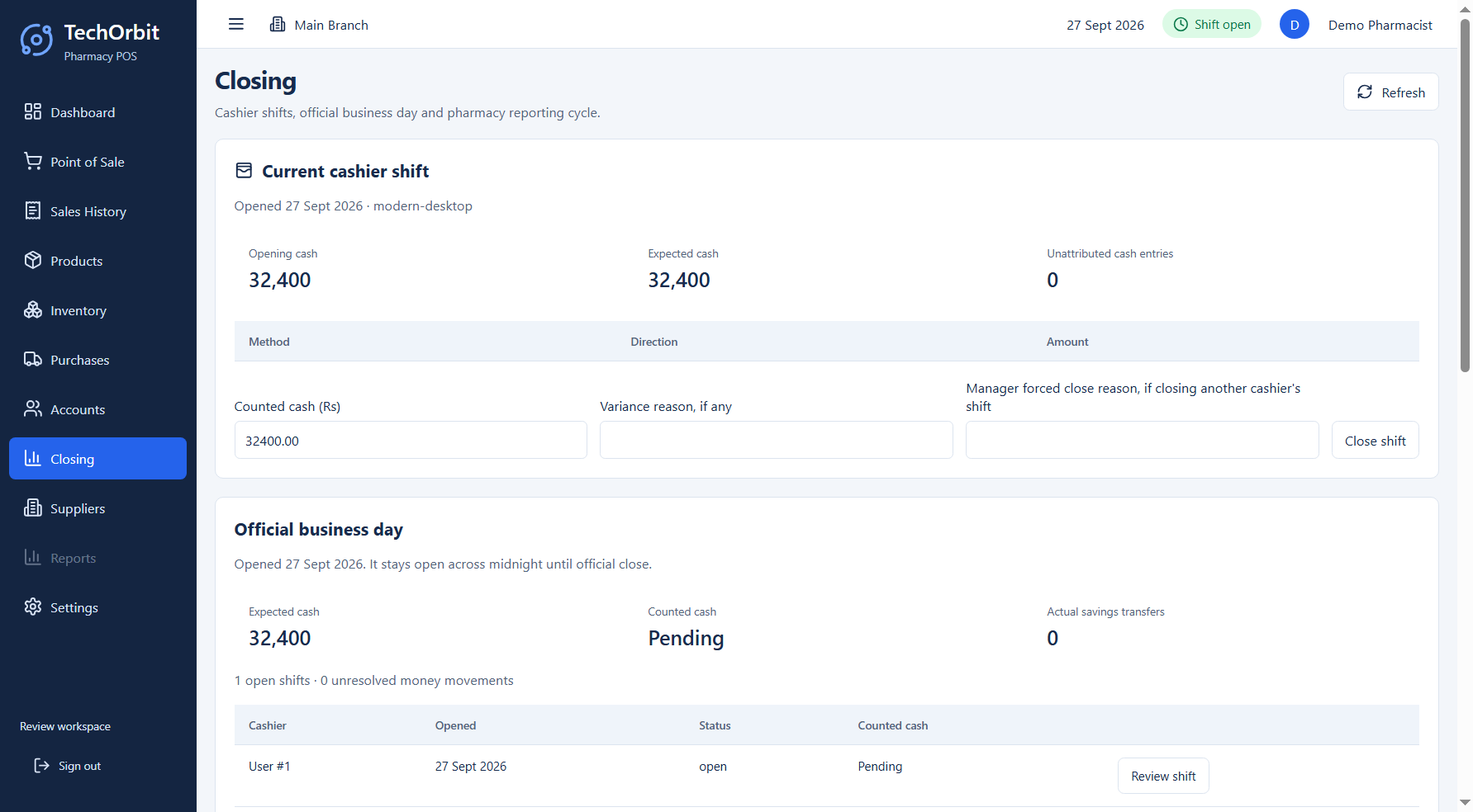
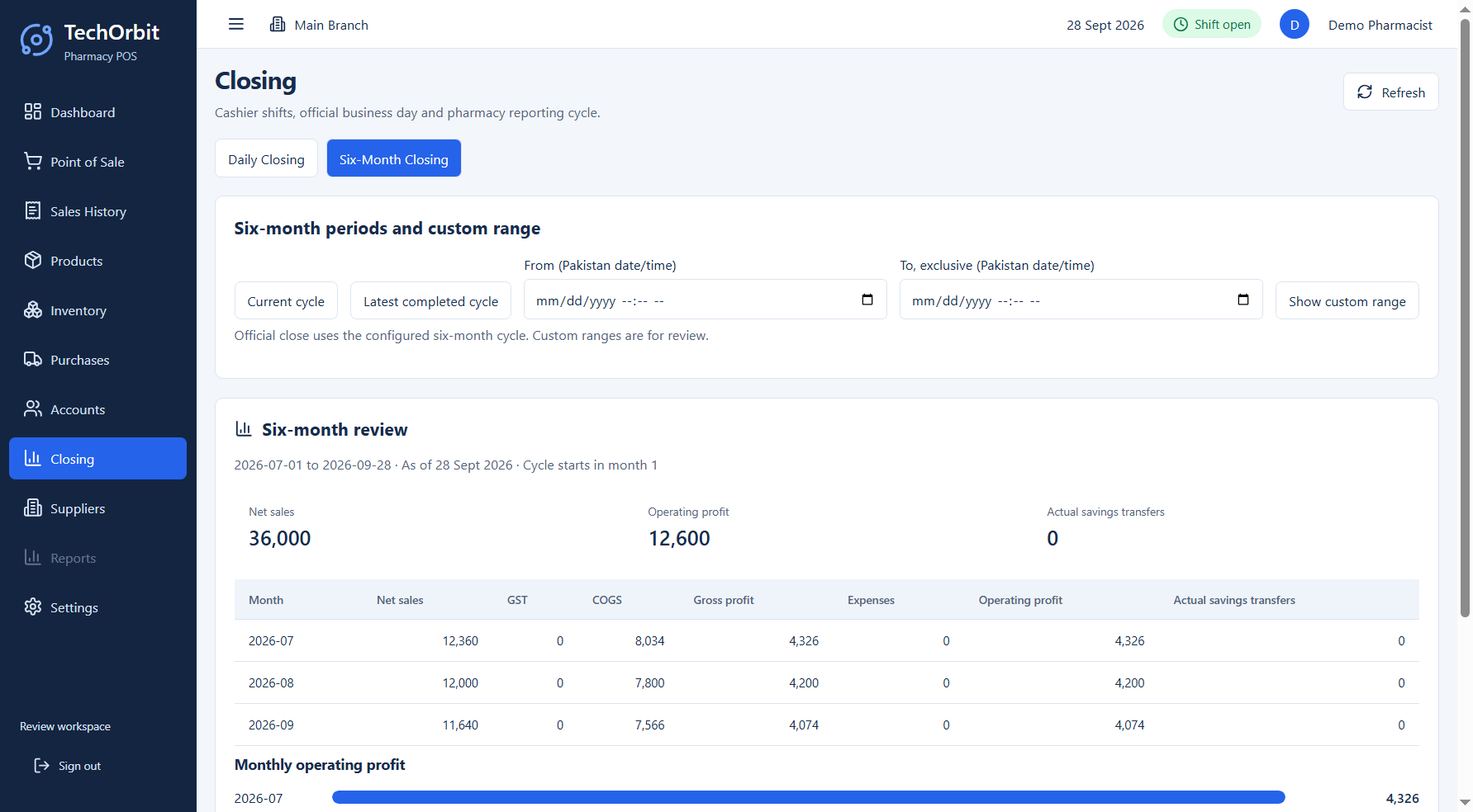
Add configurable six-month closing and period history

diff --git a/modernization/src/Closing.tsx b/modernization/src/Closing.tsx
@@ -18,6 +18,9 @@ export function Closing(){
   const [history,setHistory]=useState<Awaited<ReturnType<Api['closingDayHistory']>>>([]),[detail,setDetail]=useState<Awaited<ReturnType<Api['closingDayDetail']>>|null>(null);
   const [revisionCash,setRevisionCash]=useState(''),[revisionReason,setRevisionReason]=useState('');
   const [savingsAccount,setSavingsAccount]=useState(''),[savingsAmount,setSavingsAmount]=useState(''),[savingsReference,setSavingsReference]=useState('');
+  const [tab,setTab]=useState<'daily'|'six_month'>('daily'),[periodMode,setPeriodMode]=useState<'current'|'completed'|'custom'|'history'>('current');
+  const [periodFrom,setPeriodFrom]=useState(''),[periodTo,setPeriodTo]=useState(''),[periodNotes,setPeriodNotes]=useState(''),[periodRevisionReason,setPeriodRevisionReason]=useState('');
+  const [periodHistory,setPeriodHistory]=useState<Awaited<ReturnType<Api['closingPeriodHistory']>>>([]),[periodDetail,setPeriodDetail]=useState<Awaited<ReturnType<Api['closingPeriodDetail']>>|null>(null);
   const [error,setError]=useState(''),[notice,setNotice]=useState(''),[periodNotice,setPeriodNotice]=useState(''),[busy,setBusy]=useState(false);
   const load=async()=>{
     setBusy(true);setError('');
@@ -29,6 +32,7 @@ export function Closing(){
       try{const config=await window.pharmacy.closingConfig({});setManager(true);setAccounts(config.accounts);setTolerance(editable(config.policy.varianceToleranceMinor));setCycleMonth(config.policy.sixMonthCycleStartMonth);
         try{const current=await window.pharmacy.closingDayPreview({});setDay(current);setActuals(Object.fromEntries(current.accounts.map(row=>[row.id,editable(row.expectedNetMinor)])))}catch{setDay(null)}
         setHistory(await window.pharmacy.closingDayHistory({}));
+        setPeriodHistory(await window.pharmacy.closingPeriodHistory({}));
       }catch{setManager(false);setDay(null)}
       try{setPeriod(await window.pharmacy.closingPeriodPreview({}));setPeriodNotice('')}
       catch(e){setPeriod(null);setPeriodNotice((e as Error).message)}
@@ -37,9 +41,14 @@ export function Closing(){
   useEffect(()=>{void load()},[]);
   const action=async(work:()=>Promise<unknown>,message:string)=>{setBusy(true);setError('');setNotice('');try{await work();setNotice(message);await load()}catch(e){setError((e as Error).message)}finally{setBusy(false)}};
   const viewHistory=async(id:number)=>{try{const saved=await window.pharmacy.closingDayDetail({businessDayId:id});setDetail(saved);setRevisionCash(editable(saved.current.cashCountedMinor));setActuals(Object.fromEntries(saved.current.accounts.map(row=>[row.id,editable(row.actualNetMinor)])));setError('')}catch(e){setError((e as Error).message)}};
+  const showCompleted=async()=>{try{setPeriod(await window.pharmacy.closingPeriodCompletedPreview({}));setPeriodMode('completed');setPeriodDetail(null);setPeriodNotice('')}catch(e){setPeriodNotice((e as Error).message)}};
+  const showCustom=async()=>{try{if(!periodFrom||!periodTo)throw Error('Choose both Pakistan date/time boundaries');const from=new Date(periodFrom+'+05:00').toISOString(),to=new Date(periodTo+'+05:00').toISOString();setPeriod(await window.pharmacy.closingPeriodRangePreview({from,to}));setPeriodMode('custom');setPeriodDetail(null);setPeriodNotice('')}catch(e){setPeriodNotice((e as Error).message)}};
+  const showPeriodHistory=async(id:number)=>{try{const saved=await window.pharmacy.closingPeriodDetail({closingId:id});setPeriodDetail(saved);setPeriod(saved.current||null);setPeriodMode('history');setPeriodNotice('')}catch(e){setPeriodNotice((e as Error).message)}};
   return <section className="closing-page">
     <div className="page-title"><div><h1>Closing</h1><p>Cashier shifts, official business day and pharmacy reporting cycle.</p></div><button onClick={load} disabled={busy}><RefreshCw size={16}/> Refresh</button></div>
     {error&&<p className="error" role="alert">{error}</p>}{notice&&<p role="status">{notice}</p>}
+    <div className="closing-tabs" role="tablist" aria-label="Closing sections"><button role="tab" aria-selected={tab==='daily'} onClick={()=>setTab('daily')}>Daily Closing</button><button role="tab" aria-selected={tab==='six_month'} onClick={()=>setTab('six_month')}>Six-Month Closing</button></div>
+    {tab==='daily'&&<>
     <section className="panel"><h2><WalletCards size={18}/> Current cashier shift</h2>
       {shift?<><p>Opened {dateLabel(shift.openedAt)} · {shift.deviceId}</p>
         <div className="closing-summary"><div><small>Opening cash</small><strong>{money(shift.openingCashMinor)}</strong></div><div><small>Expected cash</small><strong>{money(shift.expectedCashMinor)}</strong></div><div><small>Unattributed cash entries</small><strong>{shift.unattributedCashCount}</strong></div></div>
@@ -73,9 +82,19 @@ export function Closing(){
           <div className="closing-form"><label>Revised counted cash (Rs)<input value={revisionCash} onChange={e=>setRevisionCash(e.target.value)}/></label>{detail.current.accounts.map(row=><label key={row.id}>Revised actual net for {row.name} (Rs)<input value={actuals[row.id]||''} onChange={e=>setActuals({...actuals,[row.id]:e.target.value})}/></label>)}<label>Revision reason<input value={revisionReason} onChange={e=>setRevisionReason(e.target.value)}/></label><button disabled={busy} onClick={()=>void action(async()=>{await window.pharmacy.closingDayRevise({businessDayId:detail.current.businessDayId,cashCountedMinor:minor(revisionCash),accountActuals:Object.fromEntries(detail.current.accounts.map(row=>[row.id,minor(actuals[row.id]||'')])),reason:revisionReason});await viewHistory(detail.current.businessDayId)},'Reasoned revision saved.')}>Save revision</button></div></>}
       </section>
     </>}
+    </>}
+    {tab==='six_month'&&<>
+    <section className="panel"><h2>Six-month periods and custom range</h2><div className="closing-form"><button onClick={()=>void action(async()=>{setPeriod(await window.pharmacy.closingPeriodPreview({}));setPeriodMode('current');setPeriodDetail(null)},'Current pharmacy cycle loaded.')}>Current cycle</button><button onClick={()=>void showCompleted()}>Latest completed cycle</button><label>From (Pakistan date/time)<input type="datetime-local" value={periodFrom} onChange={e=>setPeriodFrom(e.target.value)}/></label><label>To, exclusive (Pakistan date/time)<input type="datetime-local" value={periodTo} onChange={e=>setPeriodTo(e.target.value)}/></label><button onClick={()=>void showCustom()}>Show custom range</button></div><p>Official close uses the configured six-month cycle. Custom ranges are for review.</p></section>
     {periodNotice&&<p className="error" role="status">{periodNotice}</p>}
     {period&&<section className="panel"><h2><ChartColumn size={18}/> Six-month review</h2><p>{period.periodStart} to {period.periodEnd} · As of {dateLabel(period.asOf)} · Cycle starts in month {period.cycleStartMonth}</p>
+      <div className="closing-summary"><div><small>Net sales</small><strong>{money(period.totals.netSalesMinor)}</strong></div><div><small>Operating profit</small><strong>{money(period.totals.operatingProfitMinor)}</strong></div><div><small>Actual savings transfers</small><strong>{money(period.totals.savingsTransferredMinor)}</strong></div></div>
       <div className="account-table"><table><thead><tr><th>Month</th><th>Net sales</th><th>GST</th><th>COGS</th><th>Gross profit</th><th>Expenses</th><th>Operating profit</th><th>Actual savings transfers</th></tr></thead><tbody>{period.months.map(row=><tr key={row.month}><td>{row.month}</td><td className="number">{money(row.netSalesMinor)}</td><td className="number">{money(row.gstMinor)}</td><td className="number">{money(row.cogsMinor)}</td><td className="number">{money(row.grossProfitMinor)}</td><td className="number">{money(row.expensesMinor)}</td><td className="number">{money(row.operatingProfitMinor)}</td><td className="number">{money(row.savingsTransferredMinor)}</td></tr>)}</tbody></table></div>
+      <h3>Monthly operating profit</h3><div className="period-chart">{period.months.map(row=><div key={row.month}><span>{row.month}</span><div className="period-track"><div className={row.operatingProfitMinor<0?'negative':''} style={{width:`${Math.max(1,Math.round(Math.abs(row.operatingProfitMinor)/Math.max(1,...period.months.map(item=>Math.abs(item.operatingProfitMinor)))*100))}%`}}/></div><strong>{money(row.operatingProfitMinor)}</strong></div>)}</div>
+      {manager&&periodMode==='completed'&&period.cycleStart&&<div className="closing-form"><label>Official period close note<input value={periodNotes} onChange={e=>setPeriodNotes(e.target.value)}/></label><button disabled={busy||periodHistory.some(row=>row.period_start===period.cycleStart)} onClick={()=>void action(()=>window.pharmacy.closingPeriodClose({cycleStart:period.cycleStart!,notes:periodNotes}),'Official six-month period closed.')}>Official six-month close</button></div>}
     </section>}
+    {manager&&<section className="panel"><h2>Six-month closing history</h2>{periodHistory.length?<div className="account-table"><table><thead><tr><th>Cycle</th><th>Closed</th><th>Revisions</th><th></th></tr></thead><tbody>{periodHistory.map(row=><tr key={row.id}><td>{row.period_start} to {row.period_end}{row.legacy?' (legacy snapshot)':''}</td><td>{dateLabel(row.closed_at)}</td><td>{row.revisionCount}</td><td><button onClick={()=>void showPeriodHistory(row.id)}>View</button></td></tr>)}</tbody></table></div>:<p>No official six-month close recorded yet.</p>}
+      {periodDetail&&<>{periodDetail.legacy?<p>Legacy snapshot preserved. Reconcile it independently before a revision.</p>:<><p>Original operating profit: {money(periodDetail.original!.totals.operatingProfitMinor)} · Current: {money(periodDetail.current!.totals.operatingProfitMinor)}. Original report and {periodDetail.revisions.length} revisions retained.</p><div className="closing-form"><label>Reason for recalculated revision<input value={periodRevisionReason} onChange={e=>setPeriodRevisionReason(e.target.value)}/></label><button disabled={busy} onClick={()=>void action(async()=>{await window.pharmacy.closingPeriodRevise({closingId:periodDetail.closingId,reason:periodRevisionReason});await showPeriodHistory(periodDetail.closingId)},'Period revision saved.')}>Recalculate and revise</button></div></>}</>}
+    </section>}
+    </>}
   </section>;
 }

diff --git a/infrastructure/sqlite/services/six-month-closing.js b/infrastructure/sqlite/services/six-month-closing.js
@@ -1,0 +1,83 @@
+const {CashClosingService}=require('./cash-closing');
+
+class SixMonthClosingService {
+  constructor(db){this.db=db;this.cash=new CashClosingService(db)}
+  manager(userId){const code=this.cash.actorRole(userId);if(!['manager','admin'].includes(code))throw new Error('Manager permission is required for six-month closing')}
+  cycle(cycleStart){
+    if(!/^\d{4}-(0[1-9]|1[0-2])-01$/.test(String(cycleStart||'')))throw new Error('Choose the first day of a six-month cycle');
+    const [year,month]=cycleStart.split('-').map(Number),anchor=this.cash.policy().sixMonthCycleStartMonth;
+    if((month-anchor+12)%6!==0)throw new Error('Cycle start does not match this pharmacy configuration');
+    const from=new Date(Date.UTC(year,month-1,1)-5*3600000);
+    const to=new Date(Date.UTC(year,month+5,1)-5*3600000);
+    if(to.getTime()>Date.now())throw new Error('Six-month cycle is not complete yet');
+    return {from:from.toISOString(),to:to.toISOString(),cycleStart,cycleEnd:new Date(to.getTime()-1+5*3600000).toISOString().slice(0,10),cycleStartMonth:anchor};
+  }
+  latestCompletedCycle(){
+    const current=this.cash.cycleBounds(new Date().toISOString());
+    const local=new Date(Date.parse(current.start)+5*3600000);
+    const previous=new Date(Date.UTC(local.getUTCFullYear(),local.getUTCMonth()-6,1));
+    return this.cycle(previous.toISOString().slice(0,7)+'-01');
+  }
+  preview(input={}){
+    const cycle=input.cycleStart?this.cycle(input.cycleStart):this.latestCompletedCycle();
+    return {...this.cash.rangeReport(cycle.from,cycle.to),cycleStart:cycle.cycleStart,cycleEnd:cycle.cycleEnd};
+  }
+  close(input){
+    this.manager(input?.userId);
+    if(!input?.cycleStart)throw new Error('Select the completed pharmacy cycle before official close');
+    return this.db.transaction(()=>{
+      const cycle=this.cycle(input.cycleStart);
+      const overlap=this.db.prepare(`SELECT id FROM PeriodClosings WHERE period_type='six_month'
+        AND period_start<=? AND period_end>=? LIMIT 1`).get(cycle.cycleEnd,cycle.cycleStart);
+      if(overlap)throw new Error('This six-month cycle overlaps an existing official close');
+      const open=this.db.prepare("SELECT 1 FROM BusinessDays WHERE status='open' AND julianday(opened_at)<julianday(?) LIMIT 1").get(cycle.to);
+      if(open)throw new Error('Close overlapping business days before six-month close');
+      const report={...this.cash.rangeReport(cycle.from,cycle.to),cycleStart:cycle.cycleStart,cycleEnd:cycle.cycleEnd};
+      const now=new Date().toISOString(),notes=String(input.notes||'').trim()||null;
+      const id=Number(this.db.prepare(`INSERT INTO PeriodClosings(period_type,period_start,period_end,totals_json,closed_at,closed_by,notes)
+        VALUES('six_month',?,?,?,?,?,?)`).run(cycle.cycleStart,cycle.cycleEnd,JSON.stringify(report.totals),now,input.userId,notes).lastInsertRowid);
+      this.db.prepare('INSERT INTO PeriodClosingDetails(period_closing_id,from_utc,to_utc,cycle_start_month,report_json) VALUES(?,?,?,?,?)')
+        .run(id,cycle.from,cycle.to,cycle.cycleStartMonth,JSON.stringify(report));
+      this.audit('six_month.close',id,input.userId,report,notes);
+      return {closingId:id,closedAt:now,...report};
+    })();
+  }
+  history(){
+    return this.db.prepare(`SELECT p.id,p.period_start,p.period_end,p.closed_at,p.closed_by,
+      CASE WHEN d.period_closing_id IS NULL THEN 1 ELSE 0 END legacy
+      FROM PeriodClosings p LEFT JOIN PeriodClosingDetails d ON d.period_closing_id=p.id
+      WHERE p.period_type='six_month' ORDER BY p.period_start DESC,p.id DESC`).all()
+      .map(row=>({...row,revisionCount:this.db.prepare('SELECT COUNT(*) count FROM PeriodClosingRevisions WHERE period_closing_id=?').get(row.id).count}));
+  }
+  detail(id){
+    const row=this.db.prepare(`SELECT p.*,d.report_json FROM PeriodClosings p
+      LEFT JOIN PeriodClosingDetails d ON d.period_closing_id=p.id WHERE p.id=? AND p.period_type='six_month'`).get(id);
+    if(!row)throw new Error('Six-month closing was not found');
+    if(!row.report_json)return {closingId:row.id,legacy:true,periodStart:row.period_start,periodEnd:row.period_end,originalTotals:JSON.parse(row.totals_json),revisions:[]};
+    const revisions=this.db.prepare('SELECT revision_number,reason,revised_at,revised_by,report_json FROM PeriodClosingRevisions WHERE period_closing_id=? ORDER BY revision_number').all(id);
+    return {closingId:row.id,legacy:false,original:JSON.parse(row.report_json),current:JSON.parse(revisions.at(-1)?.report_json||row.report_json),
+      revisions:revisions.map(({report_json,...metadata})=>metadata)};
+  }
+  revise(input){
+    this.manager(input?.userId);
+    const reason=String(input?.reason||'').trim();if(!reason)throw new Error('Six-month revision requires a reason');
+    return this.db.transaction(()=>{
+      const detail=this.detail(input.closingId);
+      if(detail.legacy)throw new Error('Legacy period snapshot needs independent reconciliation before revision');
+      const previous=detail.current;
+      const corrected=this.cash.rangeReport(previous.from,previous.asOf);
+      if(JSON.stringify(previous.totals)===JSON.stringify(corrected.totals))throw new Error('No financial change exists to revise');
+      const report={...corrected,cycleStart:previous.cycleStart,cycleEnd:previous.cycleEnd};
+      const number=detail.revisions.length+1,now=new Date().toISOString();
+      this.db.prepare(`INSERT INTO PeriodClosingRevisions(period_closing_id,revision_number,previous_report_json,report_json,reason,revised_at,revised_by)
+        VALUES(?,?,?,?,?,?,?)`).run(input.closingId,number,JSON.stringify(previous),JSON.stringify(report),reason,now,input.userId);
+      this.audit('six_month.revise',input.closingId,input.userId,report,reason);
+      return {closingId:input.closingId,revisionNumber:number,...report};
+    })();
+  }
+  audit(action,id,userId,next,reason){
+    this.db.prepare(`INSERT INTO AuditLog(occurred_at,user_id,action,entity_type,entity_id,new_json,reason)
+      VALUES(?,?,?,'period_closing',?,?,?)`).run(new Date().toISOString(),userId,action,String(id),JSON.stringify(next),reason||null);
+  }
+}
+module.exports={SixMonthClosingService};

diff --git a/modernization/src/Purchases.tsx b/modernization/src/Purchases.tsx
@@ -13,16 +13,16 @@ export function Purchases({initialTab='purchases'}:{initialTab?:'purchases'|'sup
  const [tab,setTab]=useState<'purchases'|'suppliers'|'history'>(initialTab),[suppliers,setSuppliers]=useState<Supplier[]>([]),[products,setProducts]=useState<PurchaseProduct[]>([]),[history,setHistory]=useState<PurchaseHistory[]>([]);
  const [supplierSearch,setSupplierSearch]=useState(''),[productSearch,setProductSearch]=useState(''),[loading,setLoading]=useState(false),[error,setError]=useState(''),[status,setStatus]=useState('');
  const [supplierEditor,setSupplierEditor]=useState<SupplierInput|null>(null),[detail,setDetail]=useState<PurchaseDetail|null>(null),[returnSource,setReturnSource]=useState<PurchaseDetail|null>(null),[preview,setPreview]=useState<PurchasePreview|null>(null);
- const reference=useRef(key());
+ const reference=useRef(key()),reviewedAt=useRef(new Date().toISOString());
  const [supplierId,setSupplierId]=useState(0),[invoice,setInvoice]=useState(''),[purchasedAt,setPurchasedAt]=useState(today()),[method,setMethod]=useState('cash'),[paid,setPaid]=useState(''),[dueDate,setDueDate]=useState(''),[notes,setNotes]=useState(''),[lines,setLines]=useState<DraftLine[]>([blankLine()]);
  const load=async()=>{setLoading(true);setError('');try{const [s,p,h]=await Promise.all([window.pharmacy.supplierList({q:supplierSearch}),window.pharmacy.purchaseProducts({q:productSearch}),window.pharmacy.purchaseHistory({})]);setSuppliers(s);setProducts(p);setHistory(h);if(!supplierId&&s[0])setSupplierId(s[0].id)}catch(e){setError((e as Error).message)}finally{setLoading(false)}};
  useEffect(()=>{const timer=setTimeout(load,120);return()=>clearTimeout(timer)},[supplierSearch,productSearch]);
- const payload=():PurchaseInput=>({supplierId,invoiceNumber:invoice,purchasedAt:purchasedAt+'T12:00:00.000+05:00',paymentMethod:method,amountPaidMinor:Math.round((paid===''?(method==='credit'?0:total):Number(paid))*100),dueDate,notes,idempotencyKey:reference.current,items:lines.map(x=>({productId:x.productId,purchaseUnit:x.purchaseUnit,purchasedQuantity:Number(x.purchasedQuantity),bonusQuantity:Number(x.bonusQuantity),unitCostMinor:Math.round(Number(x.unitCost)*100),salePriceMinor:Math.round(Number(x.salePrice)*100),batchNumber:x.batchNumber,expiryDate:x.expiryDate,manufacturingDate:x.manufacturingDate,updateSellingPrice:x.updateSellingPrice}))});
+ const payload=():PurchaseInput=>({supplierId,invoiceNumber:invoice,purchasedAt:purchasedAt===today()?reviewedAt.current:purchasedAt+'T12:00:00.000+05:00',paymentMethod:method,amountPaidMinor:Math.round((paid===''?(method==='credit'?0:total):Number(paid))*100),dueDate,notes,idempotencyKey:reference.current,items:lines.map(x=>({productId:x.productId,purchaseUnit:x.purchaseUnit,purchasedQuantity:Number(x.purchasedQuantity),bonusQuantity:Number(x.bonusQuantity),unitCostMinor:Math.round(Number(x.unitCost)*100),salePriceMinor:Math.round(Number(x.salePrice)*100),batchNumber:x.batchNumber,expiryDate:x.expiryDate,manufacturingDate:x.manufacturingDate,updateSellingPrice:x.updateSellingPrice}))});
  const changeLine=(index:number,patch:Partial<DraftLine>)=>{setPreview(null);setLines(rows=>rows.map((row,i)=>i===index?{...row,...patch}:row))};
  const selectProduct=(index:number,id:number)=>{const product=products.find(x=>x.id===id),unit=product?.units.find(x=>x.default)||product?.units[0];changeLine(index,{productId:id,purchaseUnit:unit?.unitName||'',salePrice:String((unit?.sellingPriceMinor??product?.default_sale_price_minor??0)/100)})};
  const total=useMemo(()=>lines.reduce((sum,x)=>sum+Number(x.purchasedQuantity||0)*Number(x.unitCost||0),0),[lines]);
  const saveSupplier=async(event:React.FormEvent)=>{event.preventDefault();if(!supplierEditor)return;setLoading(true);setError('');try{const saved=await window.pharmacy.supplierSave(supplierEditor);setSupplierEditor(null);setStatus(`Supplier ${saved.name} saved.`);await load()}catch(e){setError((e as Error).message)}finally{setLoading(false)}};
- const inspect=async()=>{setError('');setStatus('');try{setPreview(await window.pharmacy.purchasePreview(payload()))}catch(e){setError((e as Error).message)}};
+ const inspect=async()=>{setError('');setStatus('');reviewedAt.current=new Date().toISOString();try{setPreview(await window.pharmacy.purchasePreview(payload()))}catch(e){setError((e as Error).message)}};
  const post=async()=>{if(!preview)return;setLoading(true);setError('');try{const result=await window.pharmacy.purchasePost(payload());setStatus(`Purchase #${result.purchaseId} posted. Paid ${money(result.amountPaidMinor)} · Due ${money(result.balanceDueMinor)}.`);setPreview(null);reference.current=key();setInvoice('');setPaid('');setDueDate('');setNotes('');setLines([blankLine()]);await load()}catch(e){setError((e as Error).message)}finally{setLoading(false)}};
  return <section className="purchases-page"><div className="page-title"><div><h1>{initialTab==='suppliers'?'Suppliers':'Purchases'}</h1><p>Receive supplier invoices with batch, units, bonus stock, effective cost and payable control.</p></div><button onClick={()=>load()} disabled={loading}><RefreshCw size={16}/> Refresh</button></div>
   <div className="segmented purchase-tabs"><button aria-pressed={tab==='purchases'} onClick={()=>setTab('purchases')}><Truck size={16}/> Receiving</button><button aria-pressed={tab==='suppliers'} onClick={()=>setTab('suppliers')}><Building2 size={16}/> Suppliers</button><button aria-pressed={tab==='history'} onClick={()=>setTab('history')}>Purchase history</button></div>

diff --git a/infrastructure/sqlite/services/cash-closing.js b/infrastructure/sqlite/services/cash-closing.js
@@ -102,18 +102,36 @@ class CashClosingService {
   sixMonthReport(asOf = new Date().toISOString()) {
     const end = new Date(asOf);
     if (Number.isNaN(end.getTime()) || end.getTime() > Date.now()) throw new Error('Invalid report date');
-    const pakistan = new Date(end.getTime() + 5 * 3600000);
+    const bounds=this.cycleBounds(end.toISOString());
+    return this.rangeReport(bounds.start,end.toISOString());
+  }
+  cycleBounds(asOf) {
+    const end=new Date(asOf);
+    if(Number.isNaN(end.getTime()))throw new Error('Invalid cycle date');
+    const pakistan = new Date(end.getTime() - 1 + 5 * 3600000);
     const year = pakistan.getUTCFullYear(), month = pakistan.getUTCMonth();
     const anchor = this.policy().sixMonthCycleStartMonth - 1;
     let cycleMonth = year * 12 + anchor;
     const currentMonth = year * 12 + month;
     while (cycleMonth > currentMonth) cycleMonth -= 6;
     while (cycleMonth + 6 <= currentMonth) cycleMonth += 6;
+    const instant=index=>new Date(Date.UTC(Math.floor(index / 12),index % 12,1)-5*3600000).toISOString();
+    return {start:instant(cycleMonth),end:instant(cycleMonth+6),cycleStartMonth:anchor+1};
+  }
+  rangeReport(fromInput,toInput) {
+    const fromDate=new Date(fromInput),toDate=new Date(toInput);
+    if(Number.isNaN(fromDate.getTime())||Number.isNaN(toDate.getTime())||toDate<=fromDate||toDate.getTime()>Date.now())
+      throw new Error('Choose a valid past report date/time range');
+    const fromMonth=new Date(fromDate.getTime()+5*3600000),lastMonth=new Date(toDate.getTime()-1+5*3600000);
+    const firstIndex=fromMonth.getUTCFullYear()*12+fromMonth.getUTCMonth();
+    const lastIndex=lastMonth.getUTCFullYear()*12+lastMonth.getUTCMonth();
+    if(lastIndex-firstIndex>=120)throw new Error('Report range cannot exceed 120 months');
     const months = [];
-    for (let index = cycleMonth; index <= currentMonth; index++) {
+    for (let index = firstIndex; index <= lastIndex; index++) {
       const start = new Date(Date.UTC(Math.floor(index / 12), index % 12, 1) - 5 * 3600000);
       const next = new Date(Date.UTC(Math.floor((index + 1) / 12), (index + 1) % 12, 1) - 5 * 3600000);
-      const from = start.toISOString(), to = index === currentMonth ? end.toISOString() : next.toISOString();
+      const from = new Date(Math.max(start.getTime(),fromDate.getTime())).toISOString();
+      const to = new Date(Math.min(next.getTime(),toDate.getTime())).toISOString();
       const sales = this.db.prepare("SELECT COALESCE(SUM(final_total_minor),0) total,COALESCE(SUM(cogs_minor),0) cogs,COALESCE(SUM(gst_minor),0) gst FROM Sales WHERE status='posted' AND julianday(sold_at)>=julianday(?) AND julianday(sold_at)<julianday(?)").get(from, to);
       const customerReturns = this.db.prepare(`SELECT COALESCE(SUM(r.total_minor),0) amount,
         COALESCE(SUM((SELECT SUM(i.cogs_minor) FROM SaleReturnItems i WHERE i.sale_return_id=r.id)),0) cogs,
@@ -134,15 +152,12 @@ class CashClosingService {
         purchaseReturnsMinor: Number(returns),savingsTransferredMinor:Number(savings) });
     }
     const fields = ['salesMinor','customerReturnsMinor','netSalesMinor','gstMinor','cogsMinor','grossProfitMinor','expensesMinor','operatingProfitMinor','purchasesMinor','purchaseReturnsMinor','savingsTransferredMinor'];
-    return { periodStart: `${months[0].month}-01`, periodEnd: pakistan.toISOString().slice(0,10), asOf: end.toISOString(), cycleStartMonth:anchor + 1, months,
+    return { periodStart: fromMonth.toISOString().slice(0,10), periodEnd: lastMonth.toISOString().slice(0,10), from:fromDate.toISOString(),asOf:toDate.toISOString(), cycleStartMonth:this.policy().sixMonthCycleStartMonth, months,
       totals: months.reduce((a,m)=>{for(const k of fields)a[k]+=m[k];return a;},Object.fromEntries(fields.map(k=>[k,0]))) };
   }
   closeSixMonth(x) {
-    const report = this.sixMonthReport(x.asOf), now = new Date().toISOString();
-    const id = this.db.prepare("INSERT INTO PeriodClosings(period_type,period_start,period_end,totals_json,closed_at,closed_by,notes) VALUES ('six_month',?,?,?,?,?,?)")
-      .run(report.periodStart, report.periodEnd, JSON.stringify(report.totals), now, x.closedBy || null, x.notes || null).lastInsertRowid;
-    this.audit('period.close', id, x, report);
-    return { closingId: Number(id), ...report };
+    return new (require('./six-month-closing').SixMonthClosingService)(this.db)
+      .close({...x,userId:x?.userId||x?.closedBy});
   }
   audit(action, id, x, next) {
     this.db.prepare("INSERT INTO AuditLog(occurred_at,user_id,action,entity_type,entity_id,new_json,reason,device_id) VALUES (?,?,?,'closing',?,?,?,?)")

diff --git a/modernization/src/contracts.ts b/modernization/src/contracts.ts
@@ -10,6 +10,12 @@ export interface ClosingDay {
   savingsTransferredMinor:number;shifts:{id:number;user_id:number;device_id:string;status:string;opened_at:string;closed_at:string|null;counted_cash_minor:number|null}[];
   reason?:string|null;revisionNumber?:number;revisionReason?:string;
 }
+export interface PeriodReport {
+  periodStart:string;periodEnd:string;from:string;asOf:string;cycleStartMonth:number;
+  cycleStart?:string;cycleEnd?:string;closingId?:number;revisionNumber?:number;
+  months:{month:string;netSalesMinor:number;gstMinor:number;cogsMinor:number;grossProfitMinor:number;expensesMinor:number;operatingProfitMinor:number;savingsTransferredMinor:number}[];
+  totals:{netSalesMinor:number;gstMinor:number;cogsMinor:number;grossProfitMinor:number;expensesMinor:number;operatingProfitMinor:number;savingsTransferredMinor:number};
+}
 export type CreditMode = 'paid' | 'partial' | 'credit';
 export interface Product {
   id: number;
@@ -183,7 +189,13 @@ export interface Api {
   productSuppliers():Promise<{id:number;name:string}[]>;
   shiftStatus():Promise<{id:number;opened_at:string;device_id:string}|null>;
   closingShiftPreview(input:{shiftId:number}):Promise<{shiftId:number;userId:number|null;deviceId:string;status:string;openedAt:string;closedAt:string|null;openingCashMinor:number;expectedCashMinor:number;countedCashMinor:number|null;varianceMinor:number|null;unattributedCashCount:number;movements:{method:string;direction:string;amount:number}[]}>;
-  closingPeriodPreview(input:{asOf?:string}):Promise<{periodStart:string;periodEnd:string;asOf:string;cycleStartMonth:number;months:{month:string;netSalesMinor:number;gstMinor:number;cogsMinor:number;grossProfitMinor:number;expensesMinor:number;operatingProfitMinor:number;savingsTransferredMinor:number}[];totals:{netSalesMinor:number;gstMinor:number;cogsMinor:number;grossProfitMinor:number;expensesMinor:number;operatingProfitMinor:number;savingsTransferredMinor:number}}>;
+  closingPeriodPreview(input:{asOf?:string}):Promise<PeriodReport>;
+  closingPeriodRangePreview(input:{from:string;to:string}):Promise<PeriodReport>;
+  closingPeriodCompletedPreview(input:{cycleStart?:string}):Promise<PeriodReport>;
+  closingPeriodClose(input:{cycleStart:string;notes:string}):Promise<PeriodReport>;
+  closingPeriodHistory(input:Record<string,never>):Promise<{id:number;period_start:string;period_end:string;closed_at:string;legacy:number;revisionCount:number}[]>;
+  closingPeriodDetail(input:{closingId:number}):Promise<{closingId:number;legacy:boolean;original?:PeriodReport;current?:PeriodReport;originalTotals?:PeriodReport['totals'];periodStart?:string;periodEnd?:string;revisions:{revision_number:number;reason:string;revised_at:string}[]}>;
+  closingPeriodRevise(input:{closingId:number;reason:string}):Promise<PeriodReport>;
   closingHandover():Promise<{shiftId:number;countedCashMinor:number}|null>;
   closingShiftOpen(input:{openingCashMinor:number;handoverConfirmed:boolean}):Promise<{id:number;business_day_id:number}>;
   closingShiftClose(input:{shiftId:number;countedCashMinor:number;varianceReason:string;forcedCloseReason:string}):Promise<{shiftId:number;varianceMinor:number}>;

diff --git a/tests/cash-closing.test.js b/tests/cash-closing.test.js
@@ -4,6 +4,7 @@ const {CashClosingService}=require('../infrastructure/sqlite/services/cash-closi
 const {recordMoneyMovement}=require('../infrastructure/sqlite/services/money-movement');
 const {ClosingConfigurationService}=require('../infrastructure/sqlite/services/closing-configuration');
 const {DailyClosingService}=require('../infrastructure/sqlite/services/daily-closing');
+const {SixMonthClosingService}=require('../infrastructure/sqlite/services/six-month-closing');
 
 describe('cash shift ownership and closing',()=>{
   let db,service,user1,user2;
@@ -47,9 +48,26 @@ describe('cash shift ownership and closing',()=>{
   test('six month fixture remains immutable',()=>{
     const report=service.sixMonthReport(t(0));
     expect(report.months.map(x=>x.month)).toEqual(['2026-07','2026-08','2026-09']);
-    const closed=service.closeSixMonth({asOf:t(0)});
+    const manager=Number(db.prepare("INSERT INTO Users(username,password_hash,display_name,role_id,created_at,updated_at) VALUES('manager-period','fixture','Manager',3,?,?)")
+      .run(t(0),t(0)).lastInsertRowid);
+    expect(()=>service.closeSixMonth({cycleStart:'2026-07-01',userId:manager})).toThrow(/not complete/);
+    const closed=service.closeSixMonth({cycleStart:'2026-01-01',userId:manager});
     expect(closed.closingId).toBeGreaterThan(0);
-    expect(()=>service.closeSixMonth({asOf:t(0)})).toThrow(/UNIQUE/);
+    expect(closed).toMatchObject({periodStart:'2026-01-01',periodEnd:'2026-06-30'});
+    expect(()=>service.closeSixMonth({cycleStart:'2026-01-01',userId:manager})).toThrow(/overlaps/);
+    const period=new SixMonthClosingService(db);
+    const detail=period.detail(closed.closingId);
+    expect(detail.original.totals).toEqual(closed.totals);
+    expect(period.history()[0]).toMatchObject({id:closed.closingId,legacy:0,revisionCount:0});
+    const custom=service.rangeReport('2026-04-10T04:00:00Z','2026-05-15T15:00:00Z');
+    expect(custom.months.map(x=>x.month)).toEqual(['2026-04','2026-05']);
+    db.prepare("INSERT INTO Expenses(category_id,amount_minor,method,expense_date,description,idempotency_key,status,created_at) VALUES(1,100,'cash','2026-05-01T08:00:00Z','Late correction','late-period-expense','posted',?)").run(t(0));
+    expect(()=>period.revise({closingId:closed.closingId,userId:manager})).toThrow(/reason/);
+    const revision=period.revise({closingId:closed.closingId,userId:manager,reason:'Late posted expense reconciled'});
+    expect(revision).toMatchObject({revisionNumber:1,periodStart:'2026-01-01',periodEnd:'2026-06-30'});
+    expect(revision.totals.expensesMinor).toBe(100);
+    expect(period.detail(closed.closingId).original.totals.expensesMinor).toBe(0);
+    expect(period.detail(closed.closingId).current.totals.expensesMinor).toBe(100);
   });
 
   test('Pakistan month boundary and return GST/COGS reverse profit before as-of cutoff',()=>{

diff --git a/modernization/src/styles.css b/modernization/src/styles.css
@@ -1102,3 +1102,4 @@ body:has(.scrim) {
 
 .closing-page{display:grid;gap:18px}.closing-page .page-title{margin-bottom:0}.closing-page .panel{padding:18px}.closing-page h2{display:flex;align-items:center;gap:9px}.closing-page .account-table{margin-top:14px}.closing-summary{display:grid;grid-template-columns:repeat(3,minmax(0,1fr));gap:12px;margin-top:16px}.closing-summary>div{padding:14px;border-radius:10px;background:var(--surface-2)}.closing-summary small{display:block;color:var(--muted)}.closing-summary strong{display:block;margin-top:5px;font-size:20px;font-variant-numeric:tabular-nums}@media(max-width:720px){.closing-summary{grid-template-columns:1fr}}
 .closing-form{display:flex;flex-wrap:wrap;align-items:end;gap:12px;margin-top:16px}.closing-form label{display:grid;gap:6px;min-width:180px;flex:1}.closing-form .closing-check{display:flex;align-items:center;gap:8px;min-width:250px}.closing-form .closing-check input{width:auto}.closing-form p{width:100%;margin:0}.closing-page .account-table select,.closing-page .account-table input{max-width:230px}
+.closing-tabs{display:flex;gap:8px}.closing-tabs button[aria-selected="true"]{background:var(--primary);color:white}.period-chart{display:grid;gap:8px;margin-top:14px}.period-chart>div{display:grid;grid-template-columns:85px minmax(120px,1fr) 120px;gap:10px;align-items:center}.period-chart strong{text-align:right;font-variant-numeric:tabular-nums}.period-track{height:13px;border-radius:10px;background:var(--surface-2);overflow:hidden}.period-track>div{height:100%;border-radius:10px;background:var(--primary)}.period-track>div.negative{background:var(--danger)}

diff --git a/docs/PROJECT_STATUS.md b/docs/PROJECT_STATUS.md
@@ -1,6 +1,6 @@
 # Pharmacy POS project status
 
-- Status date: 2026-09-27
+- Status date: 2026-09-28
 - Branch: `feature/approved-dashboard-pos-ui`
 Verified application baseline: B02 commit `3db0a98`, pushed to `origin/feature/approved-dashboard-pos-ui`. B03 application delivery is recorded in the canonical tracker with its final commit and test evidence.
 
@@ -13,7 +13,7 @@ The [canonical master tracker](../../docs/outputs/pharmacy-pos-tracker-20260913/
 - B01 P044-P045 was pushed in `09df349`. P044 is Done. P045's software interaction scope is verified, while physical barcode scanner acceptance remains Partial.
 - **B02 P046-P051 was implemented, tested, committed and pushed on 2026-09-27 in `3db0a98`; all six features are Done.** It delivers paged customer search/history, unified customer/supplier/vendor dues, customer collection, supplier payment, vendor settlement, and the modern expenses/vendor ledger. Settlement idempotency, overpayment protection, money movements and audit links have focused checks.
 - **B03 P052-P053 is delivered in the modern review app.** Customer returns validate the original invoice and cumulative quantity, credit outstanding dues before recording an actual refund, and put sellable items back into their original batch. Non-sellable returns record disposal without adding sellable stock. Supplier returns validate original purchase and batch receipt attribution, available source stock and cumulative quantity, reduce outstanding payable first, then record any actual refund and stock valuation. Both flows have preview, posting, audit and replay protection.
-- **B04 P055-P058 are Partial.** The shift workflow now requires counted cash, a reason for any variance, and manager approval above a configurable Rs 50 default; the receiving cashier confirms the previous counted handover. Managers can force-close another cashier's shift with a reason. A business day remains open across midnight, requires all shifts and digital movements to be reconciled, then stores one official close snapshot. Reasoned revisions retain the original. Bank, wallet and savings accounts are configured per pharmacy, and actual savings transfer references are recorded separately from operating profit. The modern Closing page exposes these controls. The six-month preview uses a configurable cycle start month and includes recorded savings transfers. Final period close, custom ranges, charts, wider golden-data acceptance and three-run evidence remain open.
+- **B04 P055-P058 are Partial.** The shift workflow requires counted cash, a reason for any variance, and manager approval above a configurable Rs 50 default; the receiving cashier confirms the previous counted handover. Managers can force-close another cashier's shift with a reason. A business day remains open across midnight, requires all shifts and digital movements to be reconciled, then stores one official close snapshot. Reasoned revisions retain the original. Bank, wallet and savings accounts are configured per pharmacy, and actual savings transfer references are recorded separately from operating profit. The modern Closing page exposes these controls. The separate six-month view now shows current and latest completed configured cycles, custom Pakistan date/time ranges, monthly figures and chart, manager official close, history and reasoned recalculation revisions. Historical legacy period snapshots remain read-only. Independent golden-data reconciliation, export and three-run acceptance remain open.
 - The B02 Electron test launcher now uses Playwright's default Electron resolution, so its loader is injected. Managed-host sandbox/GPU compatibility is test-only; production window security settings remain unchanged. Earlier Electron launch timeouts and ambiguous test locators were resolved before B02 completion.
 
 ## Verification checkpoint
@@ -23,15 +23,16 @@ The [canonical master tracker](../../docs/outputs/pharmacy-pos-tracker-20260913/
 - B03 verification on 2026-09-27: 4 backend suites / 13 tests, 2 modern integration tests, TypeScript/Vite production build, and 3 isolated desktop E2E flows passed. The B03 desktop flow covers customer due credit and cash refund, restock and disposal, supplier payable credit and refund, and persisted database state after reopening. The three-run acceptance matrix remains Pending.
 - Earlier B04 partial checkpoint: 7 affected backend suites / 29 tests, 3 modern integration tests, production build and 3 isolated Electron E2E flows passed in `64d3ba0`.
 - Current B04 increment on 2026-09-27: 5 affected backend suites / 21 tests, including 8 focused cash-closing tests and upgrade safety; 24 modern integration tests, TypeScript/Vite build and 4 isolated Electron E2E flows passed. The desktop flow covered account/rule configuration, savings transfer, shift count, official close, revision and restart persistence; B02/B03 E2E also passed. These are package tests, not final three-run acceptance.
+- Subsequent B04 six-month increment on 2026-09-28: cash-closing Jest suite passed 8/8; 24 modern integration tests, TypeScript/Vite build and 5 isolated Electron E2E flows passed together. The new period flow covers configured official close, custom range, history and restart; shift/day flow adds a posted digital sale and account allocation; B02/B03 desktop flows regressed. A Pakistan midnight demo-data and purchase-time issue found by B03 regression was corrected before the consolidated pass. These are still focused package runs, not three independent acceptance runs.
 - These focused results do not replace the final 91-scenario, three-run acceptance campaign or prove hardware, packaged runtime and live-data readiness. Previously accepted unrelated flows were not rerun during this status check.
 
 ## Open work and release boundaries
 
 - **P054 cash shift backend foundation is already Done** in commit `7047c78`; its shift/period fixture tests passed again on 2026-09-27 (2/2). This is foundation only, not acceptance of the full closing workflow.
-- **B04 P055-P058 remains active** on the P054 foundation. The owner resolved the cash tolerance, handover, manager close, dynamic accounts, business-day cutoff, six-month cycle and savings meaning on 2026-09-27; see `docs/closing-decisions-20260914.md`. Remaining implementation and acceptance: account allocation from a complete realistic financial fixture, official six-month cycle closure/history, custom ranges/charts/exports, revision rules against independent statements, and three documented runs. B05 P059-P061 covers P&L and reporting.
+- **B04 P055-P058 remains active** on the P054 foundation. The owner resolved the cash tolerance, handover, manager close, dynamic accounts, business-day cutoff, six-month cycle and savings meaning on 2026-09-27; see `docs/closing-decisions-20260914.md`. Remaining implementation and acceptance: account allocation from a complete realistic financial fixture, six-month export, revision rules against independent statements, and three documented runs. B05 P059-P061 covers P&L and reporting.
 - P045 needs a physical scanner run. Physical 80mm printer evidence, DPI/small-screen checks, role/security matrix, backup/restore and fault campaign, financial golden data, performance, signed installer/upgrade, production-data migration rehearsal and pilot remain release work.
 - The modern app uses isolated review data by default. No live cutover, destructive cleanup, stock/unit rebasing or go-live is authorized. Generic multi-industry POS ideas remain discussion only and are outside the existing Pharmacy V1 plan unless the owner explicitly changes it.
 
 ## Next action
 
-Continue B04 with the remaining six-month and financial reconciliation work, then run the full golden-data and three-run closing acceptance. Keep P055-P058 Partial and release gates Open until that evidence is recorded.
+Continue B04 with export and independent financial reconciliation, then run the full golden-data and three-run closing acceptance. Keep P055-P058 Partial and release gates Open until that evidence is recorded.
